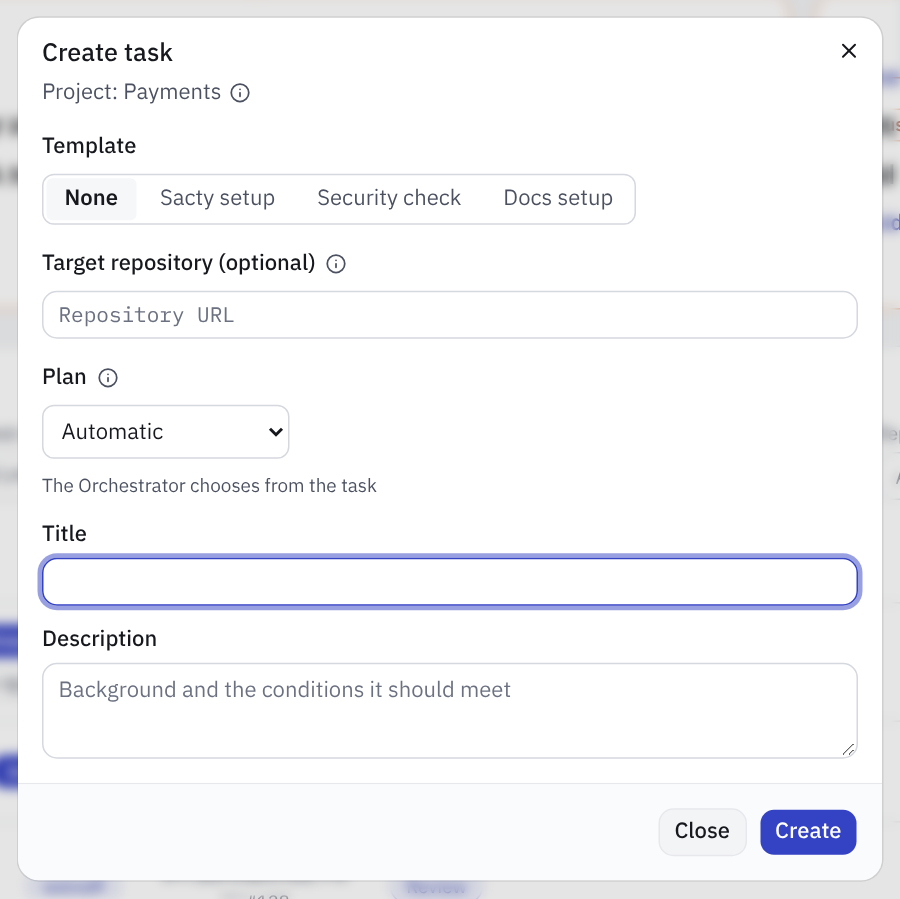
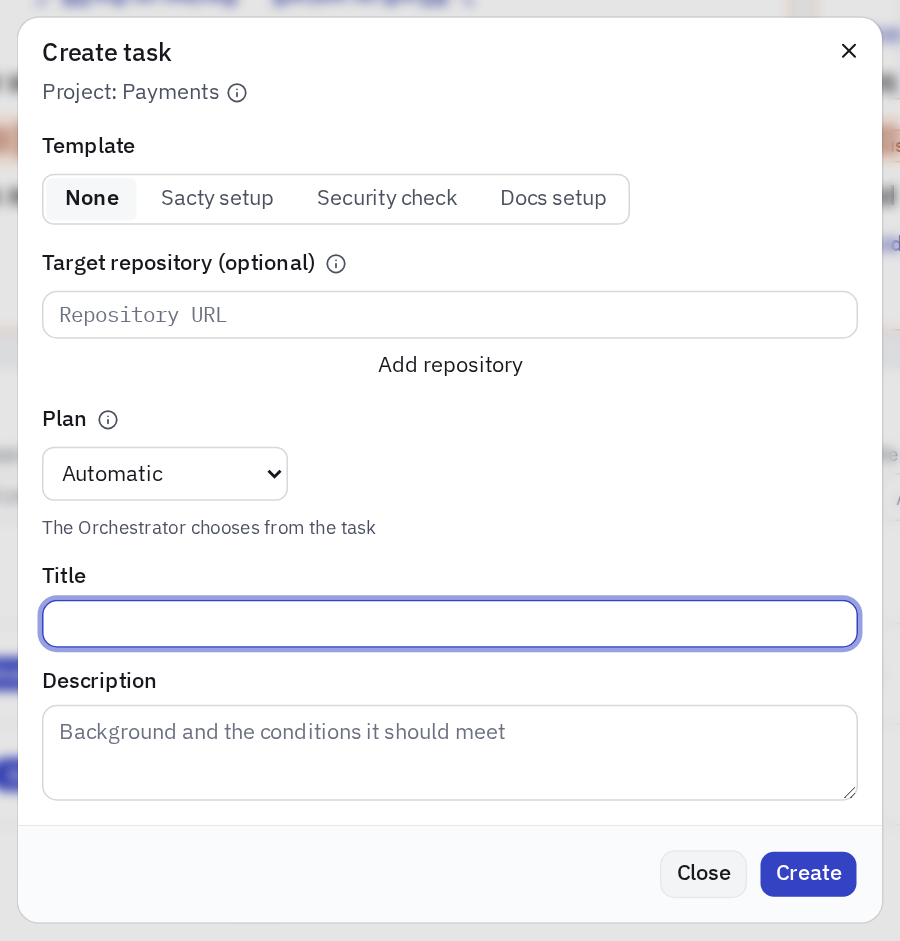
feat: 作成のダイアログで複数のリポジトリを指定でき、一覧・詳細に表示する
sacty task 57bd9008-3f24-4ef5-a2b0-b8cb7295c829

diff --git a/apps/web/src/components/new-task-dialog.tsx b/apps/web/src/components/new-task-dialog.tsx
@@ -22,6 +22,7 @@ import { Textarea } from "@/components/ui/textarea";
 import { useMessages } from "@/i18n/client";
 import { projectSettingsPath } from "@/lib/paths";
 import { candidatesLoader, type RepositoryCandidates } from "@/lib/repository-candidates";
+import { addRepositoryField, removeRepositoryField } from "@/lib/repository-fields";
 import {
   agentField,
   chosenForPlan,
@@ -291,6 +292,7 @@ export function TaskFields({
   const messages = useMessages();
   const t = messages.forms.task;
   const repositories = candidates.status === "loaded" ? candidates.repositories : [];
+  const [repoFields, setRepoFields] = useState([0]);
   return (
     <>
       <fieldset className="flex flex-col gap-2">
@@ -316,7 +318,10 @@ export function TaskFields({
                 value={value}
                 checked={template === value}
                 className="sr-only"
-                onChange={() => onTemplate(value)}
+                onChange={() => {
+                  if (value) setRepoFields((fields) => fields.slice(0, 1));
+                  onTemplate(value);
+                }}
               />
               {label}
             </label>
@@ -367,18 +372,37 @@ export function TaskFields({
           </span>
           {/* Org の対象ではリポジトリが多いので、入力して絞り込めるようにする */}
           {/* 空欄なら、リポジトリを指定せずに作る（PBI-73） */}
-          <Input
-            id={`${idPrefix}-repo`}
-            name="repo"
-            list={`${idPrefix}-repo-options`}
-            autoComplete="off"
-            required={template !== ""}
-            // 候補が届く前に入力していれば、入力を残す（React は、入力していないときだけ defaultValue の変化を
-            // 表示に反映する）
-            defaultValue={repoDefault}
-            placeholder={t.repositoryPlaceholder}
-            className="font-mono"
-          />
+          {(template || !steps ? repoFields.slice(0, 1) : repoFields).map((field, index) => (
+            <div key={field} className="flex gap-2">
+              <Input
+                id={index === 0 ? `${idPrefix}-repo` : `${idPrefix}-repo-${field}`}
+                aria-label={index === 0 ? undefined : `${t.repository} ${index + 1}`}
+                name="repo"
+                list={`${idPrefix}-repo-options`}
+                autoComplete="off"
+                defaultValue={index === 0 ? repoDefault : ""}
+                placeholder={t.repositoryPlaceholder}
+                className="font-mono"
+              />
+              {!template && steps && repoFields.length > 1 && (
+                <button
+                  type="button"
+                  onClick={() => setRepoFields((fields) => removeRepositoryField(fields, field))}
+                >
+                  {t.removeRepository}
+                </button>
+              )}
+            </div>
+          ))}
+          {!template && steps && (
+            <button
+              type="button"
+              disabled={repoFields.length >= 10}
+              onClick={() => setRepoFields(addRepositoryField)}
+            >
+              {t.addRepository}
+            </button>
+          )}
           <datalist id={`${idPrefix}-repo-options`}>
             {repositories.map((repo) => (
               <option key={repo} value={repo} />

diff --git a/apps/web/src/components/repository-fields.test.ts b/apps/web/src/components/repository-fields.test.ts
@@ -1,0 +1,67 @@
+// @vitest-environment jsdom
+import { act, createElement as h } from "react";
+import { createRoot } from "react-dom/client";
+import { renderToStaticMarkup } from "react-dom/server";
+import { describe, expect, it, vi } from "vitest";
+import { messagesFor } from "@/i18n";
+
+let locale: "ja" | "en" = "ja";
+vi.mock("@/i18n/client", () => ({ useMessages: () => messagesFor(locale) }));
+vi.mock("@/app/actions", () => ({ createTaskAction: async () => ({}) }));
+const { TaskFields } = await import("./new-task-dialog");
+(globalThis as { IS_REACT_ACT_ENVIRONMENT?: boolean }).IS_REACT_ACT_ENVIRONMENT = true;
+const props = {
+  idPrefix: "task",
+  projectId: "p",
+  hasTargets: true,
+  candidates: { status: "loaded" as const, repositories: [], problems: [] },
+  template: "" as const,
+  onTemplate: () => {},
+  plan: "" as const,
+  onPlan: () => {},
+  steps: { customized: [], onOpen: () => {} },
+};
+
+describe("作成フォームのリポジトリ欄", () => {
+  it("追加と削除で送信値が変わり、10欄では追加できない", async () => {
+    const container = document.createElement("div");
+    document.body.append(container);
+    const root = createRoot(container);
+    await act(() => root.render(h("form", null, h(TaskFields, props))));
+    const form = container.querySelector("form")!;
+    const add = () =>
+      Array.from(form.querySelectorAll("button")).find(
+        (b) => b.textContent === "リポジトリを追加",
+      )!;
+    const inputs = () => Array.from(form.querySelectorAll<HTMLInputElement>('input[name="repo"]'));
+    inputs()[0]!.value = "acme/a";
+    await act(() => add().click());
+    inputs()[1]!.value = "acme/b";
+    expect(new FormData(form).getAll("repo")).toEqual(["acme/a", "acme/b"]);
+    const remove = Array.from(form.querySelectorAll("button")).filter(
+      (b) => b.textContent === "削除",
+    );
+    await act(() => remove[1]!.click());
+    expect(new FormData(form).getAll("repo")).toEqual(["acme/a"]);
+    for (let i = 0; i < 9; i++) await act(() => add().click());
+    expect(inputs()).toHaveLength(10);
+    expect(add().disabled).toBe(true);
+    await act(() => add().click());
+    expect(inputs()).toHaveLength(10);
+    await act(() => root.unmount());
+    container.remove();
+  });
+
+  it("静的描画で追加を示し、テンプレートは1欄に固定する", () => {
+    for (const lang of ["ja", "en"] as const) {
+      locale = lang;
+      const html = renderToStaticMarkup(h(TaskFields, props));
+      expect(html).toContain(messagesFor(lang).forms.task.addRepository);
+      expect(html).toContain('name="repo"');
+      const template = renderToStaticMarkup(h(TaskFields, { ...props, template: "sacty-setup" }));
+      expect(template).not.toContain(messagesFor(lang).forms.task.addRepository);
+      expect(template.match(/name="repo"/g)).toHaveLength(1);
+    }
+    locale = "ja";
+  });
+});

diff --git a/apps/web/src/i18n/messages/forms.ts b/apps/web/src/i18n/messages/forms.ts
@@ -66,9 +66,11 @@ const ja = {
     repository: "対象リポジトリ（任意）",
     repositoryRequired: "対象リポジトリ",
     templateRepositoryHint: "テンプレートで扱うリポジトリを、プロジェクトの対象から選びます。",
+    addRepository: "リポジトリを追加",
+    removeRepository: "削除",
     repositoryPlaceholder: "リポジトリの URL",
     repositoryHint:
-      "空欄なら、リポジトリを指定せずに作ります。調べものや全体の設計はリポジトリ無しで進み、コードの変更が要るときはオーケストレーターがプロジェクトの対象から選びます。入力すると候補を絞り込めます。",
+      "すべて空欄なら、リポジトリを指定せずに作ります。調べものや全体の設計はリポジトリ無しで進み、コードの変更が要るときはオーケストレーターがプロジェクトの対象から選びます。入力すると候補を絞り込めます。",
     listFailed: (owner: string, reason: string) =>
       `${owner} のリポジトリを読めませんでした：${reason}`,
     // リポジトリの候補は、ダイアログを開いたときに読む（PBI-109）。待たずに URL を入力して作成できる
@@ -157,9 +159,11 @@ const en: FormsMessages = {
     repository: "Target repository (optional)",
     repositoryRequired: "Target repository",
     templateRepositoryHint: "The repository the template works on, from the project's targets.",
+    addRepository: "Add repository",
+    removeRepository: "Remove",
     repositoryPlaceholder: "Repository URL",
     repositoryHint:
-      "Leave it empty to create the task without a repository. Research and overall design proceed without one; when code must change, the Orchestrator chooses a repository from the project's targets. Type to filter the suggestions.",
+      "Leave all fields empty to create the task without a repository. Research and overall design proceed without one; when code must change, the Orchestrator chooses a repository from the project's targets. Type to filter the suggestions.",
     listFailed: (owner: string, reason: string) =>
       `Could not list the repositories of ${owner}: ${reason}`,
     repositoriesLoading: "Loading suggestions…",

diff --git a/apps/web/src/components/task-list.tsx b/apps/web/src/components/task-list.tsx
@@ -159,13 +159,19 @@ export function LiveTaskList({
                             <span className="sr-only">{m.childOf(task.parentTitle)}</span>
                           )}
                           {/* 作業するリポジトリ（repo だけ。PBI-141） */}
-                          {task.repoName && (
-                            <span
-                              className="mt-0.5 block font-mono text-xs text-muted-foreground [overflow-wrap:anywhere]"
-                              data-testid={`task-repo-${task.id}`}
-                            >
-                              {task.repoName}
+                          {task.repos?.length ? (
+                            <span className="mt-0.5 block font-mono text-xs text-muted-foreground">
+                              {task.repos.join(", ")}
                             </span>
+                          ) : (
+                            task.repoName && (
+                              <span
+                                className="mt-0.5 block font-mono text-xs text-muted-foreground [overflow-wrap:anywhere]"
+                                data-testid={`task-repo-${task.id}`}
+                              >
+                                {task.repoName}
+                              </span>
+                            )
                           )}
                         </td>
                         <td className="px-3 py-3.5 whitespace-nowrap text-muted-foreground">
@@ -181,7 +187,7 @@ export function LiveTaskList({
                             <span className="block font-mono text-xs">#{task.source.number}</span>
                           )}
                           {/* リポジトリを指定せずに作ったタスク（PBI-73） */}
-                          {task.repoless && (
+                          {task.repoless && !task.repos?.length && (
                             <span className="mt-0.5 block w-fit rounded border border-border px-1.5 text-xs">
                               {m.noRepository}
                             </span>

diff --git a/apps/web/src/app/actions.ts b/apps/web/src/app/actions.ts
@@ -83,7 +83,11 @@ export async function createTaskAction(
   _prev: CreateTaskState,
   formData: FormData,
 ): Promise<CreateTaskState> {
-  const repo = String(formData.get("repo") ?? "").trim();
+  const repos = formData
+    .getAll("repo")
+    .map((value) => String(value).trim())
+    .filter(Boolean);
+  const repo = repos[0] ?? "";
   const plan = String(formData.get("plan") ?? "").trim();
   const template = TaskTemplate.safeParse(formData.get("template"));
   // テンプレートで作る（PBI-90）。題と説明は sacty が決めるので、リポジトリだけを渡す
@@ -96,7 +100,7 @@ export async function createTaskAction(
     title: String(formData.get("title") ?? ""),
     body: String(formData.get("body") ?? ""),
     // 対象リポジトリ（PBI-21）。プロジェクトの設定にあるかは、デーモンが検査する
-    ...(repo ? { repo } : {}),
+    ...(repos.length > 1 ? { repos } : repo ? { repo } : {}),
     // 工程の組み合わせ（進め方）。空なら自動（オーケストレーターが選ぶ）。タスクの形で選べるかは、デーモンが検査する
     ...(plan ? { plan } : {}),
     ...(plan && image ? { image } : {}),
@@ -138,7 +142,11 @@ export async function createTaskAction(
   let result: Awaited<ReturnType<typeof createTask>>;
   try {
     // 空欄なら、リポジトリを指定しない（対象がリポジトリ1つだけでも。PBI-73）
-    result = await createTask({ ...parsed.data, repo: parsed.data.repo ?? null, projectId });
+    result = await createTask({
+      ...parsed.data,
+      ...(parsed.data.repos ? {} : { repo: parsed.data.repo ?? null }),
+      projectId,
+    });
   } catch {
     return { message: a.createFailed, values: shown };
   }

diff --git a/apps/web/src/components/derive-dialog.test.ts b/apps/web/src/components/derive-dialog.test.ts
@@ -81,3 +81,46 @@ describe("完了したタスクから続きのタスクを作る（派生）", (
     expect(html).toContain("Task t1");
   });
 });
+
+describe("複数リポジトリの詳細", () => {
+  it("指定したすべてを日英で表示し、リポジトリ無しを表示しない", () => {
+    const task = project([created("t1", { noRepo: true, repos: ["acme/a", "acme/b"] })]).get(
+      "t1",
+    ) as Task;
+    for (const lang of ["ja", "en"] as const) {
+      locale = lang;
+      const html = render(task);
+      expect(html).toContain("acme/a");
+      expect(html).toContain("acme/b");
+      expect(html).not.toContain('data-testid="no-repository"');
+    }
+  });
+});
+
+it("一覧は複数の指定を日英で並べ、リポジトリ無しの印を出さない", async () => {
+  const { LiveTaskList } = await import("./task-list");
+  const row = {
+    id: "t1",
+    title: "Work",
+    child: false,
+    depth: 0,
+    start: "sacty" as const,
+    repoless: true,
+    repos: ["acme/a", "acme/b"],
+    steps: [],
+    status: { text: "Idle", tone: "waiting" as const },
+    createdAt: "2026-10-20T00:00:00.000Z",
+  };
+  for (const lang of ["ja", "en"] as const) {
+    locale = lang;
+    const html = renderToStaticMarkup(
+      createElement(LiveTaskList, {
+        projectId: "p1",
+        initial: { projectId: "p1", needsYou: [], rows: [row] },
+      }),
+    );
+    expect(html).toContain("acme/a");
+    expect(html).toContain("acme/b");
+    expect(html).not.toContain(`>${messagesFor(lang).tasks.noRepository}</span>`);
+  }
+});

diff --git a/apps/web/src/app/actions.test.ts b/apps/web/src/app/actions.test.ts
@@ -704,3 +704,32 @@ describe("プロジェクトの削除（deleteProjectAction）", () => {
     expect(order).toEqual(["revalidatePath", "redirect"]);
   });
 });
+
+describe("複数リポジトリの作成", () => {
+  it.each([
+    [[], { repo: null }],
+    [["acme/a"], { repo: "acme/a" }],
+    [["acme/a", "", "acme/b"], { repos: ["acme/a", "acme/b"] }],
+  ])("値のある欄を作成入力に渡す %#", async (repos, expected) => {
+    createTask.mockReset();
+    createTask.mockResolvedValue({ ok: true, task: { id: "t1" } });
+    const data = form({ title: "作業", projectId: "project-a" });
+    for (const repo of repos) data.append("repo", repo);
+    await expect(createTaskAction({}, data)).rejects.toThrow("redirect:/tasks/t1");
+    expect(createTask).toHaveBeenCalledWith({
+      title: "作業",
+      body: "",
+      projectId: "project-a",
+      ...expected,
+    });
+  });
+
+  it("テンプレートの空欄は省略する", async () => {
+    createTask.mockReset();
+    createTask.mockResolvedValue({ ok: true, task: { id: "t1" } });
+    await expect(
+      createTaskAction({}, form({ template: "sacty-setup", projectId: "project-a", repo: "" })),
+    ).rejects.toThrow("redirect:/tasks/t1");
+    expect(createTask).toHaveBeenCalledWith({ template: "sacty-setup", projectId: "project-a" });
+  });
+});

diff --git a/apps/web/src/lib/task-list-data.ts b/apps/web/src/lib/task-list-data.ts
@@ -32,6 +32,7 @@ export type TaskRow = {
    * まだ決まっていなければ無い。
    */
   repoName?: string;
+  repos?: string[];
   steps: Pick<Task["steps"][number], "key" | "state">[];
   status: { text: string; tone: StatusTone };
   /** 作った日時（ISO 8601）。一覧を開始時期で絞り込む。 */
@@ -89,6 +90,7 @@ export async function loadTaskList(projectId: string): Promise<TaskListData | nu
       ...(task.template ? { template: task.template } : {}),
       ...(task.source ? { source: { repo: task.source.repo, number: task.source.number } } : {}),
       repoless: isRepoless(task),
+      ...(task.repos?.length ? { repos: task.repos } : {}),
       ...repoNameOf(task),
       steps: task.steps.map((s) => ({ key: s.key, state: s.state })),
       status: { text: statusText(task, labels), tone: statusTone(task) },

diff --git a/apps/web/src/lib/task-detail-data.ts b/apps/web/src/lib/task-detail-data.ts
@@ -126,7 +126,9 @@ export async function loadTaskDetail(
     // 再実行のダイアログでも、選べるイメージを出す
     task.steps.length > 0 || canRerun(task) ? getStatus().catch(() => undefined) : undefined,
     repositories && needsTicketRepositories(task)
-      ? listProjectRepositories(task.projectId).catch(() => undefined)
+      ? task.repos?.length
+        ? Promise.resolve({ repositories: task.repos })
+        : listProjectRepositories(task.projectId).catch(() => undefined)
       : undefined,
     completed ? getTaskAudit(task.id).catch(() => null) : undefined,
     task.rerun ? getTask(task.rerun.taskId).catch(() => undefined) : undefined,

diff --git a/apps/web/src/components/task-detail.tsx b/apps/web/src/components/task-detail.tsx
@@ -1138,7 +1138,9 @@ function Properties({ data }: { data: TaskDetailData }) {
           </Link>
         </Prop>
         <Prop label={l.repository}>
-          {repo ? (
+          {task.repos?.length ? (
+            <span className="font-mono text-xs">{task.repos.join(", ")}</span>
+          ) : repo ? (
             <span className="font-mono text-xs">
               {repo.replace(/^https:\/\/github\.com\//, "")}
               {/* オーケストレーター・人が選んだリポジトリは、選んだ理由を出す（PBI-73） */}

diff --git a/apps/web/src/lib/repository-fields.ts b/apps/web/src/lib/repository-fields.ts
@@ -1,0 +1,8 @@
+/** 作成フォームのリポジトリ欄を増減する。 */
+export function addRepositoryField(fields: number[]): number[] {
+  return fields.length >= 10 ? fields : [...fields, Math.max(...fields) + 1];
+}
+
+export function removeRepositoryField(fields: number[], field: number): number[] {
+  return fields.length <= 1 ? fields : fields.filter((value) => value !== field);
+}
